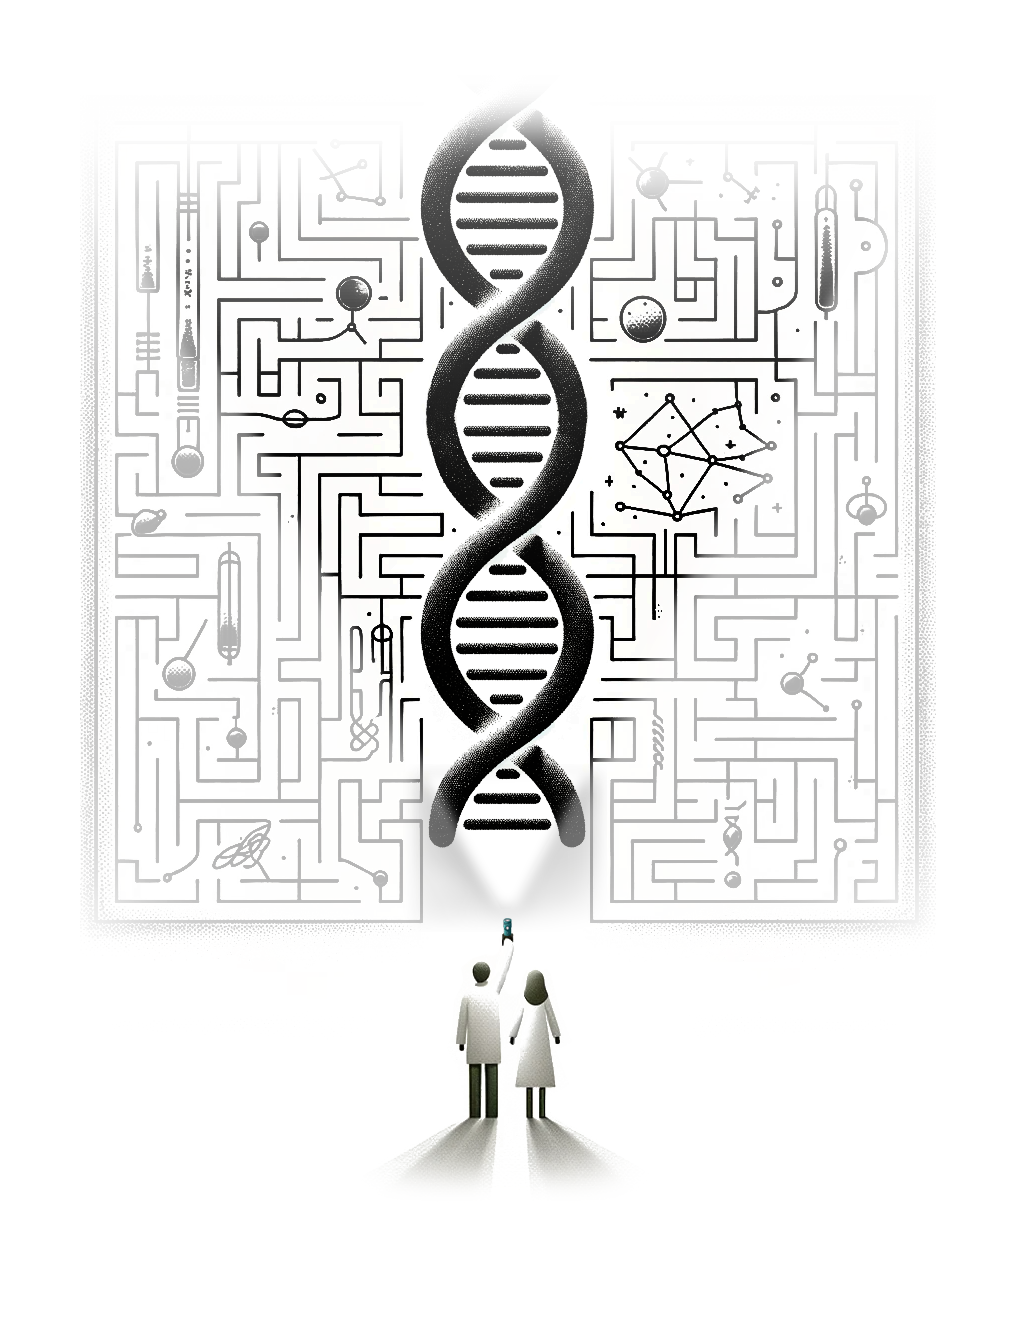
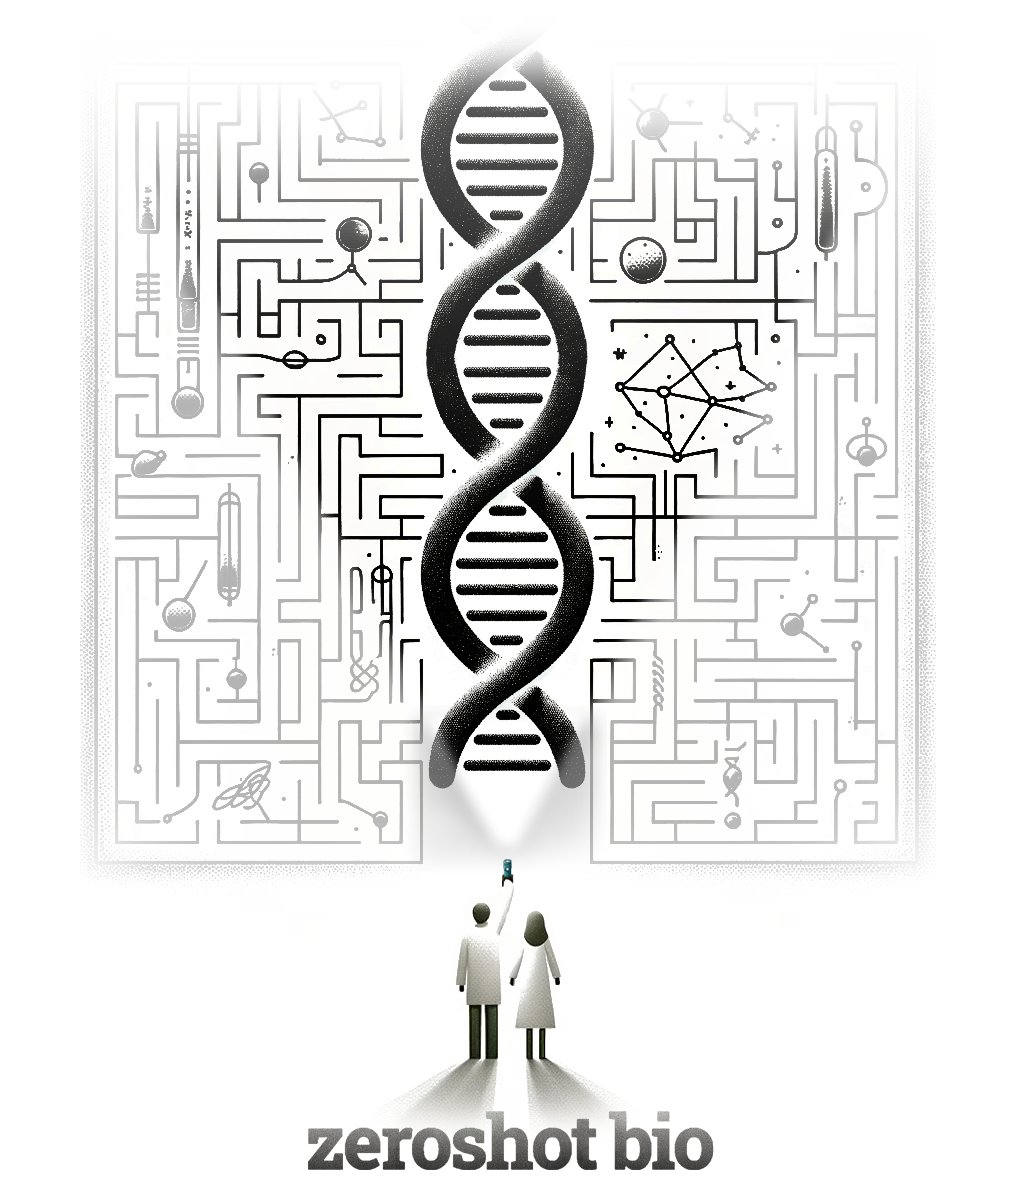
Steven's fifth edit

Changed region(s): [[0.061, 0.0312, 0.9154, 0.9992], [0.8238, 0.3747, 0.8543, 0.4059], [0.3051, 0.4059, 0.3356, 0.4371]]

diff --git a/src/app/page.tsx b/src/app/page.tsx
@@ -6,9 +6,6 @@ export default function Home() {
   return (
     <main className="flex min-h-screen flex-col items-center justify-between p-24">
       <div className="relative flex flex-col items-center justify-center before:absolute before:h-[300px] before:w-[480px] before:-translate-x-1/2 before:rounded-full before:bg-gradient-radial before:from-white before:to-transparent before:blur-2xl before:content-[''] after:absolute after:-z-20 after:h-[180px] after:w-[240px] after:translate-x-1/3 after:bg-gradient-conic after:from-gray-200 after:via-gray-200 after:blur-2xl after:content-['']  before:lg:h-[360px] z-[-1]">
-        <div>
-          <h1 className="mb-3 text-6xl text-my-teal font-semibold">ZeroshotBio</h1>
-        </div>
         <Image
           className="relative"
           src="/images/headerpic.png"
